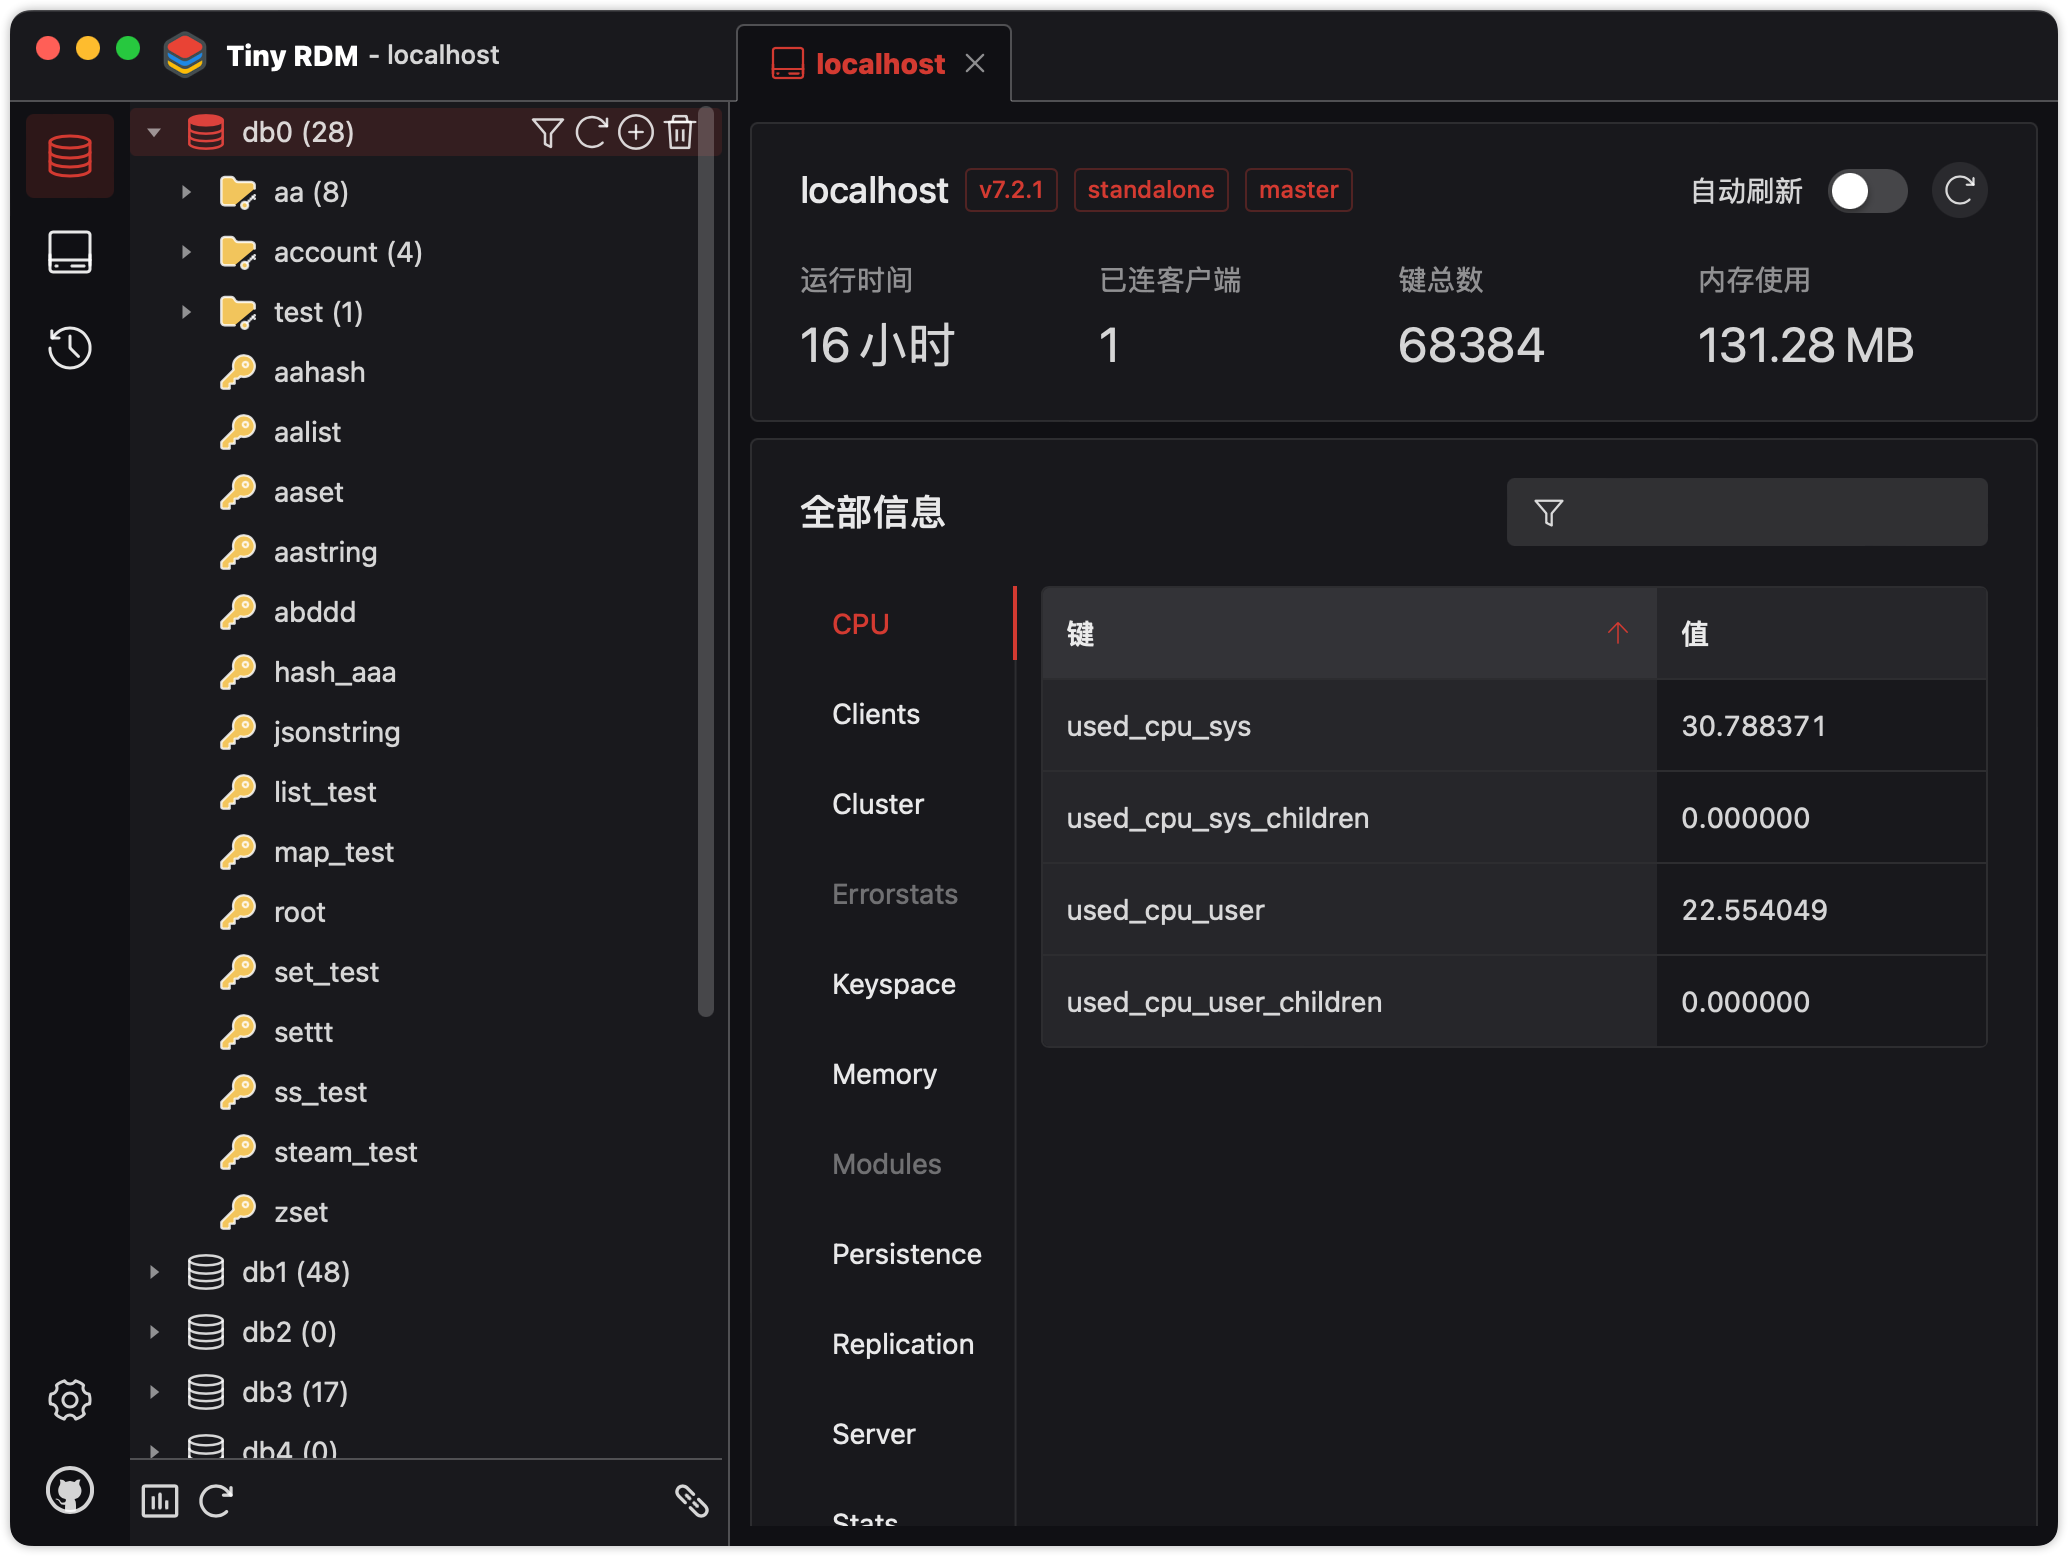
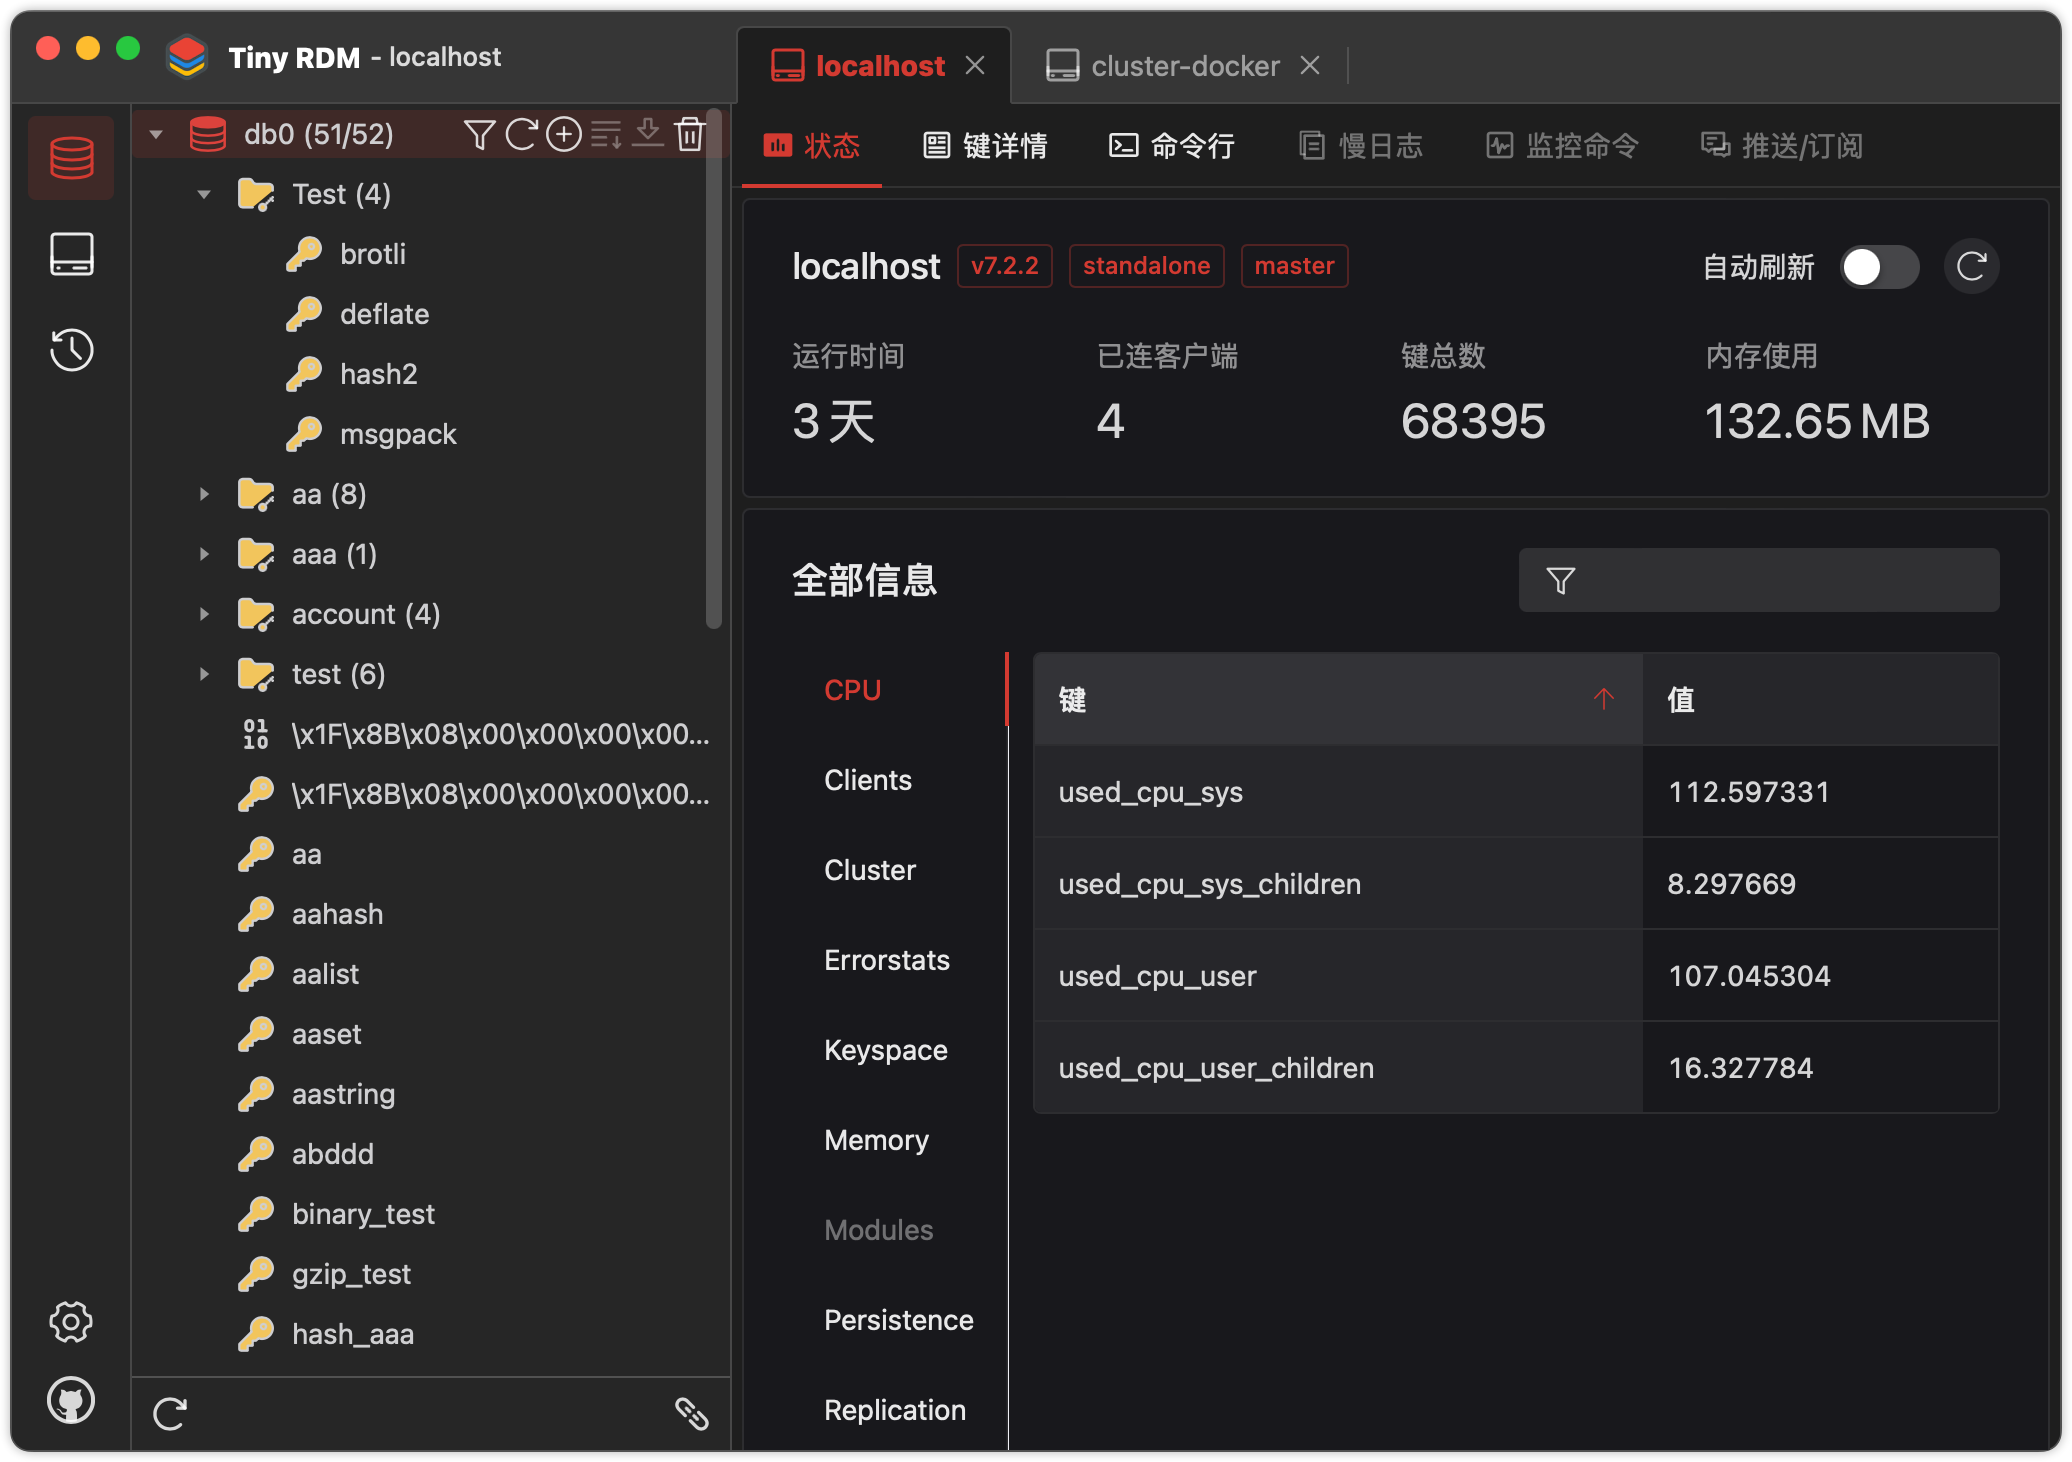
doc: update README

diff --git a/README.md b/README.md
@@ -13,20 +13,29 @@
 <strong>Tiny RDM is a modern lightweight cross-platform Redis desktop manager available for Mac, Windows, and Linux.</strong>
 </div>
 
-![](screenshots/light_en.png)
+![](screenshots/dark_en.png)
 
 ## Feature
 
-* Built on Webview, no embedded browsers (Thanks to [Wails](https://github.com/wailsapp/wails)).
-* More elegant UI and visualized layout (Thanks to [Naive UI](https://github.com/tusen-ai/naive-ui)
+* Super lightweight, built on Webview2, without embedded browsers (Thanks to [Wails](https://github.com/wailsapp/wails)).
+* More elegant UI, frameless, offering light and dark themes (Thanks to [Naive UI](https://github.com/tusen-ai/naive-ui)
   and [IconPark](https://iconpark.oceanengine.com)).
-* Multi-language support (Click here to contribute and support more languages).
-* Convenient data viewing and editing.
-* More features under continuous development...
+* Multi-language support ([Need more languages ? Click here to contribute](.github/CONTRIBUTING.md)).
+* Better connection management: supports SSH Tunnel/SSL/Sentinel Mode/Cluster Mode.
+* Visualize key value operations, CRUD support for Lists, Hashes, Strings, Sets, Sorted Sets, and Streams.
+* Support multiple data viewing format and decode/decompression methods.
+* Operation command execution logs.
+* Provides command-line operations.
+
+## Roadmap
+- [ ] Pagination and querying for List/Hash/Set/Sorted Set
+- [ ] Decode/decompression display for value of List/Hash/Set/Sorted Set
+- [ ] Slow logs
+- [ ] Real-time commands monitoring
+- [ ] Pub/Sub operations
 
 ## Installation
 
-We publish binaries for Mac, Windows, and Linux.
 Available to download for free from [here](https://github.com/tiny-craft/tiny-rdm/releases).
 
 > If you can't open it after installation on macOS, exec the following command then reopen:
@@ -34,9 +43,9 @@ Available to download for free from [here](https://github.com/tiny-craft/tiny-rd
 >  sudo xattr -d com.apple.quarantine /Applications/Tiny\ RDM.app
 > ```
 
-## Build
+## Build Guidelines
 ### Prerequisites
-* Go >= 1.21
+* Go (latest version)
 * Node.js >= 16
 * NPM >= 9
 

diff --git a/README_zh.md b/README_zh.md
@@ -13,14 +13,14 @@
 <strong>一个现代化轻量级的跨平台Redis桌面客户端，支持Mac、Windows和Linux</strong>
 </div>
 
-![screenshot](screenshots/light_zh.png)
+![screenshot](screenshots/dark_zh.png)
 
 ## 功能特性
 
 * 极度轻量，基于Webview2，无内嵌浏览器（感谢[Wails](https://github.com/wailsapp/wails)）
-* 更精美的界面和直观的结构布局（感谢[Naive UI](https://github.com/tusen-ai/naive-ui)
+* 更精美的界面，无边框窗口，提供浅色/深色主题（感谢[Naive UI](https://github.com/tusen-ai/naive-ui)
   和 [IconPark](https://iconpark.oceanengine.com)）
-* 多国语言支持：英文/中文（点我贡献和完善多国语言支持）
+* 多国语言支持：英文/中文（[需要更多语言支持？点我贡献语言](.github/CONTRIBUTING_zh.md)）
 * 更好用的连接管理：支持SSH隧道/SSL/哨兵模式/集群模式
 * 可视化键值操作，增删查改一应俱全
 * 支持多种数据查看格式以及转码/解压方式
@@ -29,6 +29,7 @@
 
 ## 未来版本规划
 - [ ] List/Hash/Set/Sorted Set的分页展示和查询
+- [ ] List/Hash/Set/Sorted Set值的转码显示
 - [ ] 慢日志展示
 - [ ] 命令实时监控
 - [ ] 发布/订阅支持

diff --git a/frontend/README.md b/frontend/README.md
@@ -1,8 +1,3 @@
-# Vue 3 + Vite
+# Frontend of Tiny RDM
 
-This template should help get you started developing with Vue 3 in Vite. The template uses Vue 3 `<script setup>` SFCs,
-check out the [script setup docs](https://v3.vuejs.org/api/sfc-script-setup.html#sfc-script-setup) to learn more.
-
-## Recommended IDE Setup
-
-- [VS Code](https://code.visualstudio.com/) + [Volar](https://marketplace.visualstudio.com/items?itemName=Vue.volar)
+Use Vue3 + Vite
